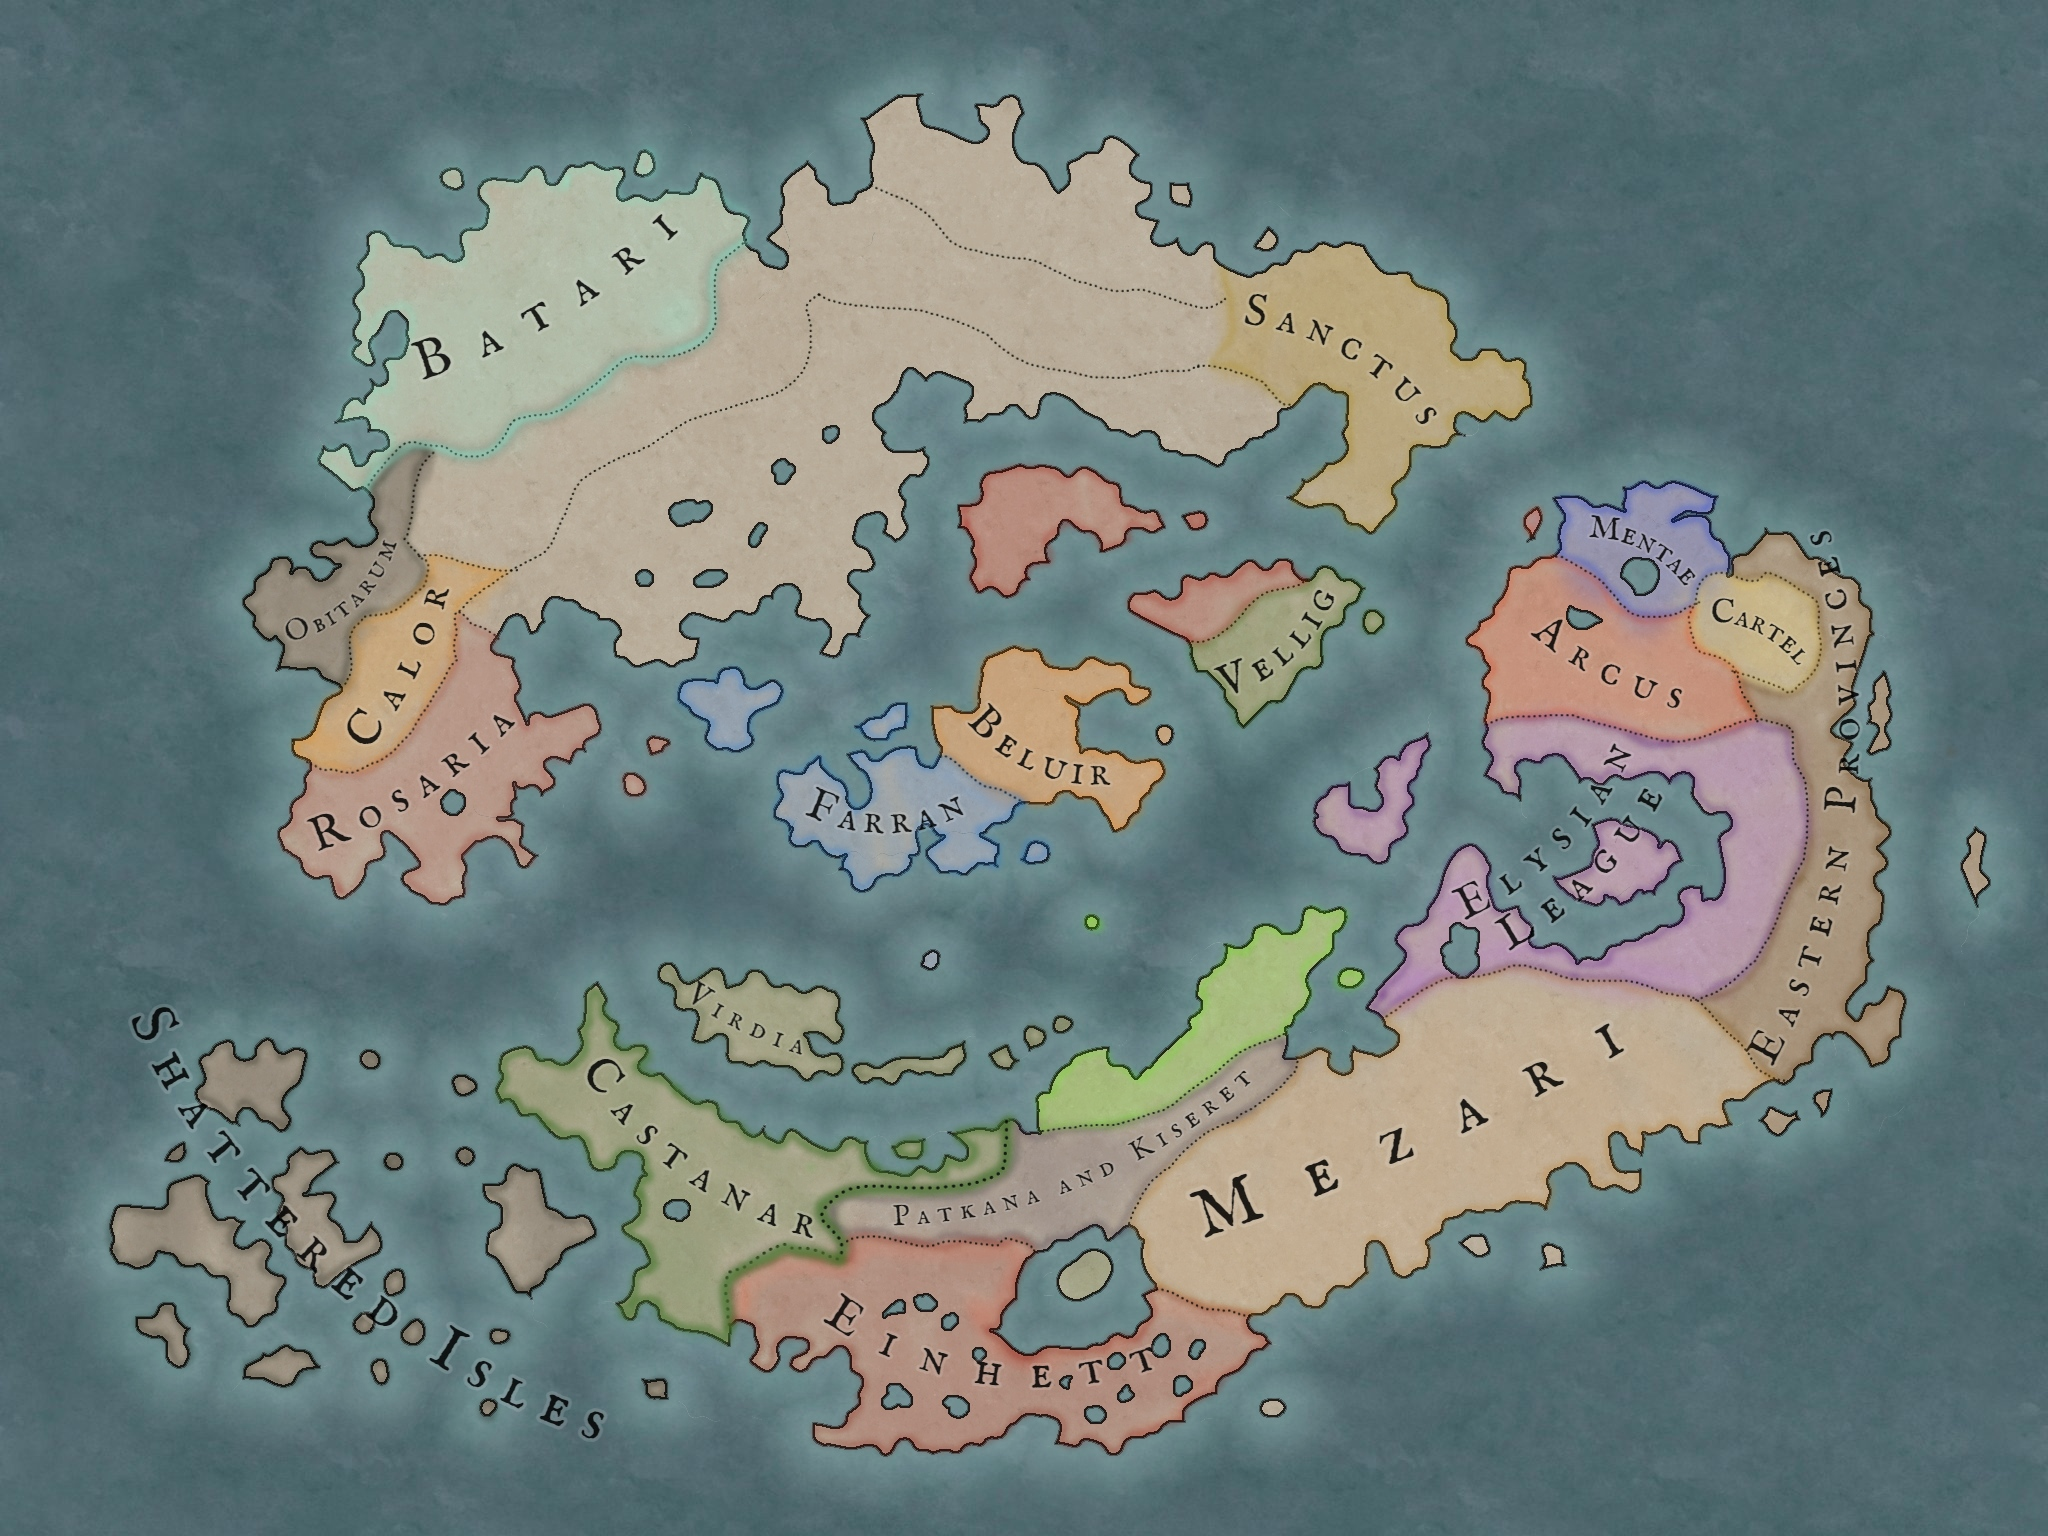
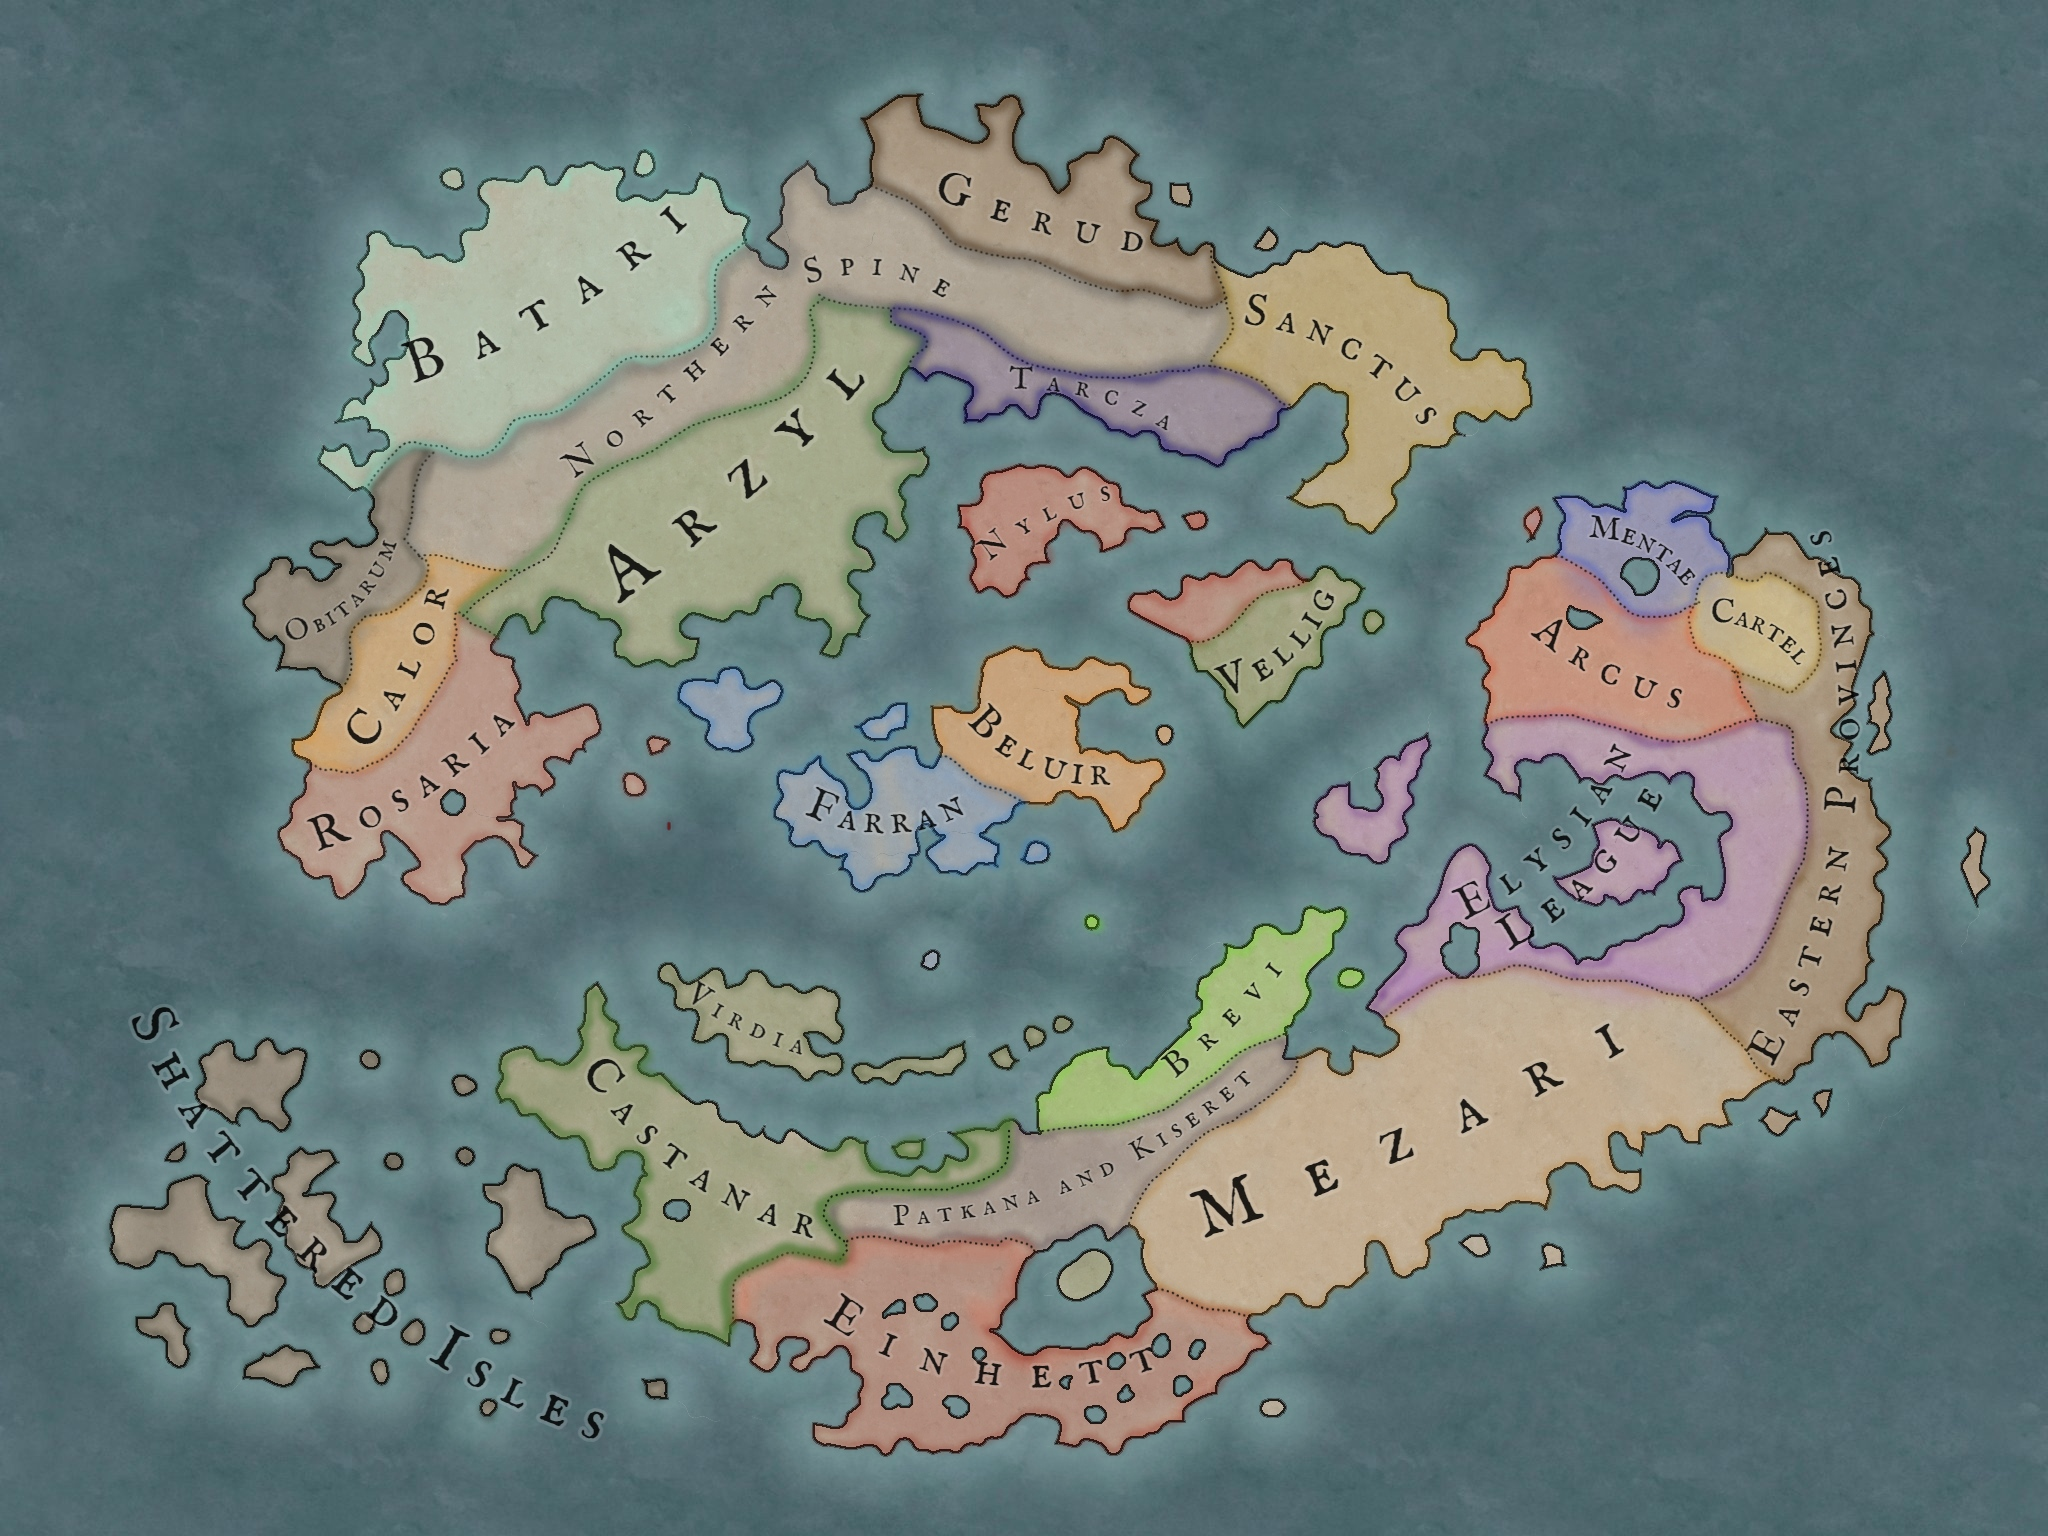
Updates

diff --git a/Geminos/Aureliana/Nations/Arzyl.md b/Geminos/Aureliana/Nations/Arzyl.md
@@ -1,0 +1,39 @@
+---
+type: Nation
+world: Geminos
+continent: [Aureliana]
+capital: []
+language: [Arzylian]
+species: [Arzyli]
+tags: [Nation]
+religion: []
+description: ""
+---
+
+## Description:
+
+Arzyl sits on the southern coast of [[Aureliana]], where it is warmed by the currents of [[Ellanor]]. Combined with the network of lakes that crisscross it, Arzyl is far warmer than much of the continent. Moreover, each of those lakes is surrounded by a city that holds one of the Arzyli Clans. 
+
+Arzyli's history is filled with internecine squabbling, with each clan vying for power and influence. For much of time, this took the form of raids, wars, and cold Arzyli blood flowing aplenty. However, this changed when one clan managed to subjugate all the others, forging an empire through subterfuge and trickery.
+
+Unification did little to stop the feuds; however, far from it, the imperial line encouraged them to ensure no other clan could grow to become a threat. Often an alliance of two families will break apart when an imperial courtier whispers little poisons into the eyes of one of the chieftains. Today at least the feuds take the form of embargos, assassinations, and political denouncements than actual war.
+
+The Arzyli are industrious, with their craftsmanship and smithing being desired across the [[Geminos|Twins]]. In particular, Arzyli steel surpasses perhaps all others, with it being more robust and flexible than any other. In addition, the metal is well known for holding a sharper edge for longer and a unique warbled appearance.
+
+Despite its internal issues (or perhaps because of them), Arzyl is immensely loved by its neighbors. It engages in intimate and profitable trade with much of the world. In particular, wine and food from [[Rosaria]] flow into Arzyl in exchange for metal and the unique fertilizer only found in Arzyl. Arzyli mercenaries also often serve in the armies of other nations. 
+
+The greatest of all those companies is the emperor's own Cerna Guard. The sight of the Cernan black armor arrayed on the battlefield has caused more than one army to rout without a fight. The official imperial policy is to rent them out to allies, offering special rates if deployed against enemies. 
+
+Nearly the entirety of the guard, every company saves the first that protects the emperor, was recently deployed at the conclusion of the [[Sanctus]]-[[Tarcza]] war. This was remarkable on its own but far more so given that they did not accept payment for their work. Instead, the emperor had provided their services as a gift to keep Tarcza standing to serve as a buffer state between Arzyl and Sanctus.
+
+---
+## Details:
+- continent: [[Aureliana]]
+- religion: [[]]
+- capital: [[Czyik]]
+
+---
+
+
+
+

diff --git a/Geminos/Ellanor/Nations/Nylus.md b/Geminos/Ellanor/Nations/Nylus.md
@@ -1,0 +1,33 @@
+---
+type: Nation
+world: Geminos
+continent: [Ellanor]
+capital: []
+language: []
+species: [Shadar-Kai, Reborn]
+tags: [Nation]
+religion: []
+description: ""
+---
+
+## Description:
+
+Nylus is any many ways the opposite of [[Virdia]] and, in many others, her twisted sister. While in Virdia, your senses are heightened to hedonistic bliss, in Nylus, they are sharpened to bring dismal isle into better relief. The land is nearly barren, with dusky gray earth and sparse stubborn vegetation. It's also terribly flat, with little scenery beyond dust. Flat that is, except for a single towering cluster of mountains, huddling together in the center of the island. 
+
+The humans and elves who populate the island have been twisted by it, with their skin pallid pales or deep greys and their eyes cold and distant. This has also granted them some eldritch power, with many able to commune with shades or resistant necrotic energies. These can range form any number of different things, with different families often breeding unique powers. Warriors of Nylus might fight using skeletal hordes, or blades of pure pyschic might, while her spies and diplomats might peer into the deeps of the mind. However, this has made them somewhat of an international pariah, with outsiders not trusting them. 
+
+Unlike Virdia, Nylus holds a unified state, with a single great city serving as its capital. Rather than being ruled by a monarch or democracy, Nylus is governed by competing bloodlines of shade-sorcerers, necromancers, and psychic exemplars competing, with the fittest taking higher positions in the conclave.
+
+Once, the empire of [[Beluir]] held Nylus as a colony, enforcing a strict military rule. Stories still speak of the strangly bloodless conquest of the island, with the leading heirachs of Nylus agreeing to annexation without a fight. The emperor of [[Belluir]] was well known for their Nylan courtiers, serving as spies to peer into thoughts or guardians against unnatural attacks. After the fall, Nylus quickly established herself, seizing the land north of [[Vellig]] as her own, although the purposes of which have yet to be discovered. 
+
+---
+## Details:
+- continent: [[Ellanor]]
+- religion: [[]]
+- capital: [[]]
+
+---
+
+
+
+

diff --git a/Geminos/Aureliana/Nations/Sanctus.md b/Geminos/Aureliana/Nations/Sanctus.md
@@ -3,7 +3,7 @@ type: Nation
 world: Geminos
 continent: [Aureliana]
 language: []
-species: []
+species: [Human, Saints, Dwarf]
 religion: [Concord Dawn]
 tags: [Nation]
 description: "The newly founded nation of Sanctus has quickly begun to prosper. The saints and priests of Concordia are gifted with healing and curing the diseases and plagues that used to ravage the landscape. As such, a booming population has led to new towns and cities sprouting across the land."
@@ -15,7 +15,7 @@ Until recently, the region known as Sanctus was a desolate and strife-filled bac
 
 Once a simple peasant girl, a vision from a new goddess named [[Concordia]] sent her on a pilgrimage to the scarred lands of [[Obitarum]]. Following a long and perilous journey, she proved her faith and achieved Sainthood. It is said that a single passing touch of her hand could cure even the most gruesome of illnesses. Upon her return, kings, peasants, and many others flocked to her banner and converted to her faith. Her reign brought unity, both in religion and purpose. Today many others have followed in her footsteps, joining her to rise as [[Living Saints]] of Concordia. 
 
-At first, a collection of a ragtag collection of peasant converts and a few minor lords soon blossomed into a proper state. Then, Victoria began to receive visions from Concordia, which detailed how her flock should organize themselves. These rules and strictures formed the bedrock of what would become Sanctus' law code.
+While at first her followers were a collection of a ragtag collection of peasant converts and a few minor lords they soon blossomed into a proper state. Then, Victoria began to receive visions from Concordia, which detailed how her flock should organize themselves. These rules and strictures formed the bedrock of what would become Sanctus' law code.
 
 The newly founded nation of Sanctus has quickly begun to prosper. The saints and priests of Concordia are gifted with healing and curing the diseases and plagues that used to ravage the landscape. As such, a booming population has led to new towns and cities sprouting across the land.
 

diff --git a/Geminos/Aureliana/Places/Northern Spine.md b/Geminos/Aureliana/Places/Northern Spine.md
@@ -9,6 +9,12 @@ description: ""
 
 ## Description:
 
+The Northern Spine is a massive mountain range that stretches across all of [[Aureliana]], bisecting the continent into a frigid north and somewhat more temperate south. Her peaks are more prominent, harsher, and colder than anything that [[Aewin]] or [[Ellanor]] holds. 
+
+And within those towering mountains, there exists a world onto itself. The Dwarves have set up sprawling holds throughout the length of the spine, with their massive edifices of stone and gold housing untold numbers. Some trade intimately with the outside world, with resources and dwarvish products being traded for commodities that are hard to find inside the mountains. Others fight against them, with one clan engaged in a bitter war with [[Sanctus]], with some holds already falling to the theocratic state.
+
+There are other peoples within the caverns as well, with the Kobolds of [[Calor]] fighting to claim a new home for themselves, as something has caused the magma pools that they called home to grow cold and dead. And yet still stranger beings exist, with odd creatures and malign presences in the deepest depths. 
+
 ---
 ## Details:
 - continent: [[Aureliana]]

diff --git a/Geminos/Aureliana/Places/Stenmur Gate.md b/Geminos/Aureliana/Places/Stenmur Gate.md
@@ -1,0 +1,35 @@
+---
+type: Place
+world: Geminos
+continent: [Aureliana]
+nation: [Obitarum]
+tags: [Place]
+description: ""
+---
+
+## Description:
+
+The Stenmur Gate was a massive stone wall erected by ancient Dwarven rune smiths in coalition with a group of Batari shamans. Each stone in the gate was inscribed with warding, sealing, and binding runes. It was created to hold back the lands of Obitarum and to ensure that the dead remained within its confines.
+
+In recent years the gate has been broken through unknown means, which granted the dead of Obitarum access to both the lands of the Northern Spine, and to [[Batari]].
+
+
+
+
+---
+
+## Visual Description:
+
+A massive stone wall sealing the entrance into the [[Northern Spine]], which now stands shattered by undead hands. A huge gouge was torn into its center, with the edges of the gash melted into slag.
+
+
+---
+## Details:
+- continent: [[Aureliana]]
+- Nation: [[Obitarum]]
+
+---
+
+
+
+

diff --git a/Geminos/Ellanor/Nations/Beluir.md b/Geminos/Ellanor/Nations/Beluir.md
@@ -12,7 +12,7 @@ description: ""
 
 ## Description:
 
-Beluir once ruled over nearly the entirety of Ellanor. The Empire planted its banner on almost every island of the sea and much of the coast. The Yuan-Ti that called it home once enjoyed all the fruits of the world's riches. Once.
+Beluir once ruled over nearly the entirety of [[Ellanor]]. The Empire planted its banner on almost every island of the sea and much of the coast. The Yuan-Ti that called it home once enjoyed all the fruits of the world's riches. Once.
 
 Before the collapse, Beluir was the center of all trade and wealth in Geminos, with ships patrolling every waterway, merchants plying every port, and soldiers extorting taxes upon a third of the population of all the land. 
 
@@ -24,7 +24,7 @@ The provinces have all broken away from the empire's grasp, with one now seeking
 
 ---
 ## Details:
-- continent: [[]]
+- continent: [[Beluir]]
 - religion: [[]]
 - capital: [[]]
 

diff --git a/Geminos/Ellanor/Nations/Farran.md b/Geminos/Ellanor/Nations/Farran.md
@@ -12,7 +12,7 @@ description: ""
 
 ## Description:
 
-Rising straight from the sea, Farran is unique. Lacking the shores and flat land of any other civilization, Farran consists of several towering stone pinnacles. Farran's people are also notable, entirely composed of winged species, primarily of Avian descent. 
+Rising straight from the sea, Farran is unique. Lacking the shores and flat land of any other civilization, Farran consists of a cluster of several towering stone pinnacles. Farran's people are also notable, entirely composed of winged species, primarily of Avian descent. 
 
 This has led to an equally unique way of life for the people of Farran, with their city honeycombing the mountainsides and awnings leaning out over the abyssal drop into the water. Only recently were stairs put up around the island to allow outsiders to live among them. 
 

diff --git a/Orders/Knights-Errant.md b/Orders/Knights-Errant.md
@@ -1,0 +1,20 @@
+---
+type: Order
+world: Geminos
+tags: [Order]
+description: ""
+---
+
+## Description:
+
+ Castanar has been defended by its [[Knights-Errant]], who swear holy oaths to complete quests to venture to the fae-touched island of [[Virdia]]. A knight who achieves their oath finds themself empowered with the magic and tricks of the Fae. Moreover, they swear to abide by a strict code of Chivalry, which was said to be written by the first member of the Knight-Errant.
+
+---
+## Details:
+- Nation: [[Castanar]]
+
+---
+
+
+
+

diff --git a/Geminos/Aureliana/Nations/Rosaria.md b/Geminos/Aureliana/Nations/Rosaria.md
@@ -3,8 +3,8 @@ type: Nation
 world: Geminos
 continent: [Aureliana]
 capital: []
-language: []
-species: [Human, Halfling, Dryad]
+language: [Castnari]
+species: [Human, Halfling, Dryad, Elf, Half-Elves, Eladrin]
 religion: []
 tags: [Nation]
 description: "Founded by a Knight-Errant of [[Castanar]] when an unexpected northern wind blew her ship far off course, Rosaria is an odd fusion of Castanari chivalry and the native Hafling knack for mercantilism. While an unlikely combination, it proved a fruitful one. "

diff --git a/Geminos/Aewin/Aewin.md b/Geminos/Aewin/Aewin.md
@@ -1,1 +1,24 @@
-Testdwaaaa
+---
+type: Place
+world: Geminos
+tags: [Place]
+description: ""
+---
+
+## Description:
+
+Aewin is the southern of the Twins,  and as such is closer to the equator. This lends her a more hopsital climate, with much of the land being covered in gentle forests or fertile plains. In some places this soothing warmth is turned into searing heat, with a great desert bisecting the continent. 
+
+---
+
+## Map:
+
+![[Aewin.jpg]]
+
+
+
+---
+
+
+
+

diff --git a/Geminos/Aureliana/Aureliana.md b/Geminos/Aureliana/Aureliana.md
@@ -1,1 +1,24 @@
-Test
+---
+type: Place
+world: Geminos
+tags: [Place]
+description: ""
+---
+
+## Description:
+
+Aureliana is the northern of the Twins, and is a far harsher place than her southern sister. Apart from a small region warmed by the sea on her southern coast she is a frigid and hostile place. Much the continent is dominated by a massive mountain range known as the [[Northern Spine]],.
+
+---
+
+## Map:
+
+![[Aewin.jpg]]
+
+
+
+---
+
+
+
+

diff --git a/Geminos/Ellanor/Ellanor.md b/Geminos/Ellanor/Ellanor.md
@@ -1,1 +1,24 @@
-Test
+---
+type: Place
+world: Geminos
+tags: [Place]
+description: ""
+---
+
+## Description:
+
+The Isles of Ellanor are a cluster of islands dotting the sea between [[Aewin]] and [[Aureliana]]. With the exception of [[Nylus]] they all boast warm, topical climates thanks to the currents bringing warm waters. 
+
+---
+
+## Map:
+
+![[Ellanor.jpg]]
+
+
+
+---
+
+
+
+
